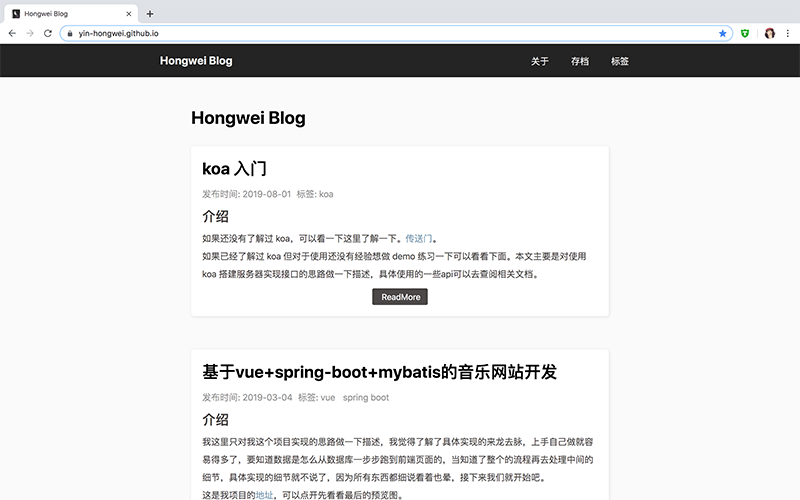
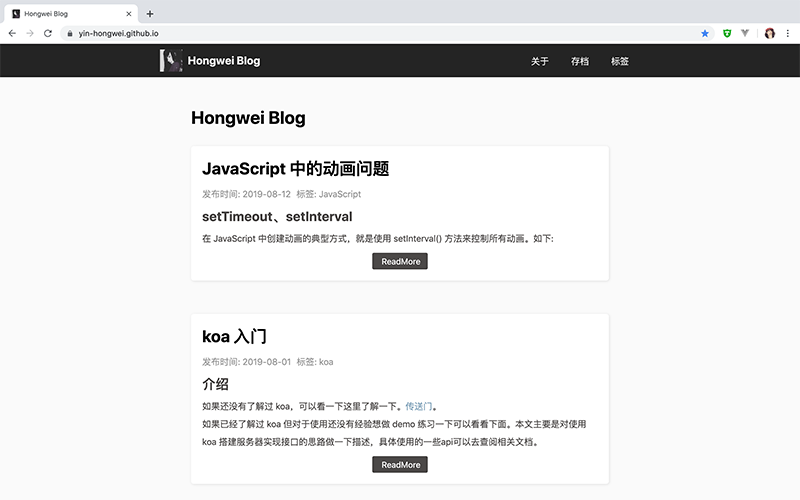
feat: 新增头像功能

diff --git a/README.md b/README.md
@@ -1,5 +1,4 @@
 <h1 align="center">hexo-theme-Yin</h1>
-
 ## Screenshots
 
 ![](https://github.com/Yin-Hongwei/hexo-theme-Yin/blob/master/source/img/Yin.png)